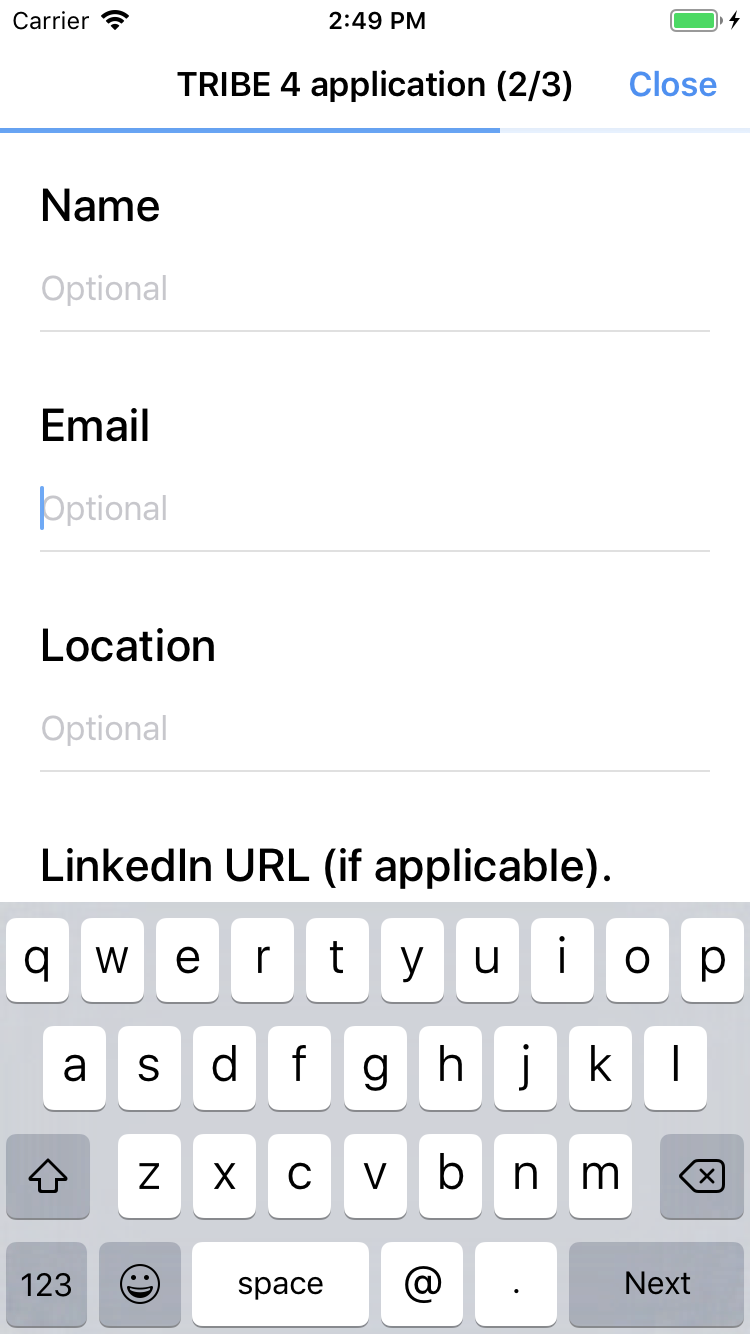
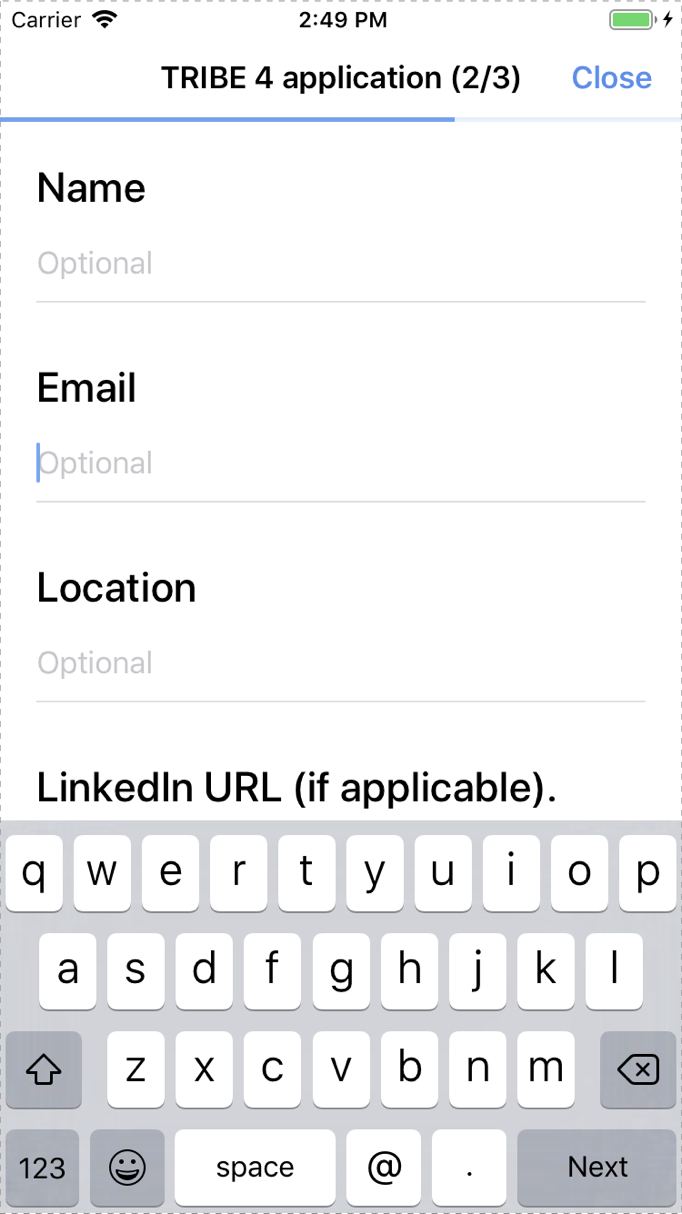
With borders for visibility differentiation images

diff --git a/README.md b/README.md
@@ -57,6 +57,8 @@ func surveyDidLoad(_ survey: Survey) {
 
     <img src="Screenshots/autofocus.png" width="240">
     <img src="Screenshots/no_autofocus.png" width="240">
+    
+    With (left) and without (right) visibility differentiation.
   
 - `mode`: A `Survey.Mode` property that is either `submission` or `stealth`. In submission mode, the survey maintains an active connection with the server (i.e. a session is created on open, and responses are uploaded). The other mode is **stealth mode**, where no data ever leaves the device throughout the survey-taking process, a bit analogous to incognito mode in a web browser (see image below). Default is `submission`.
 
